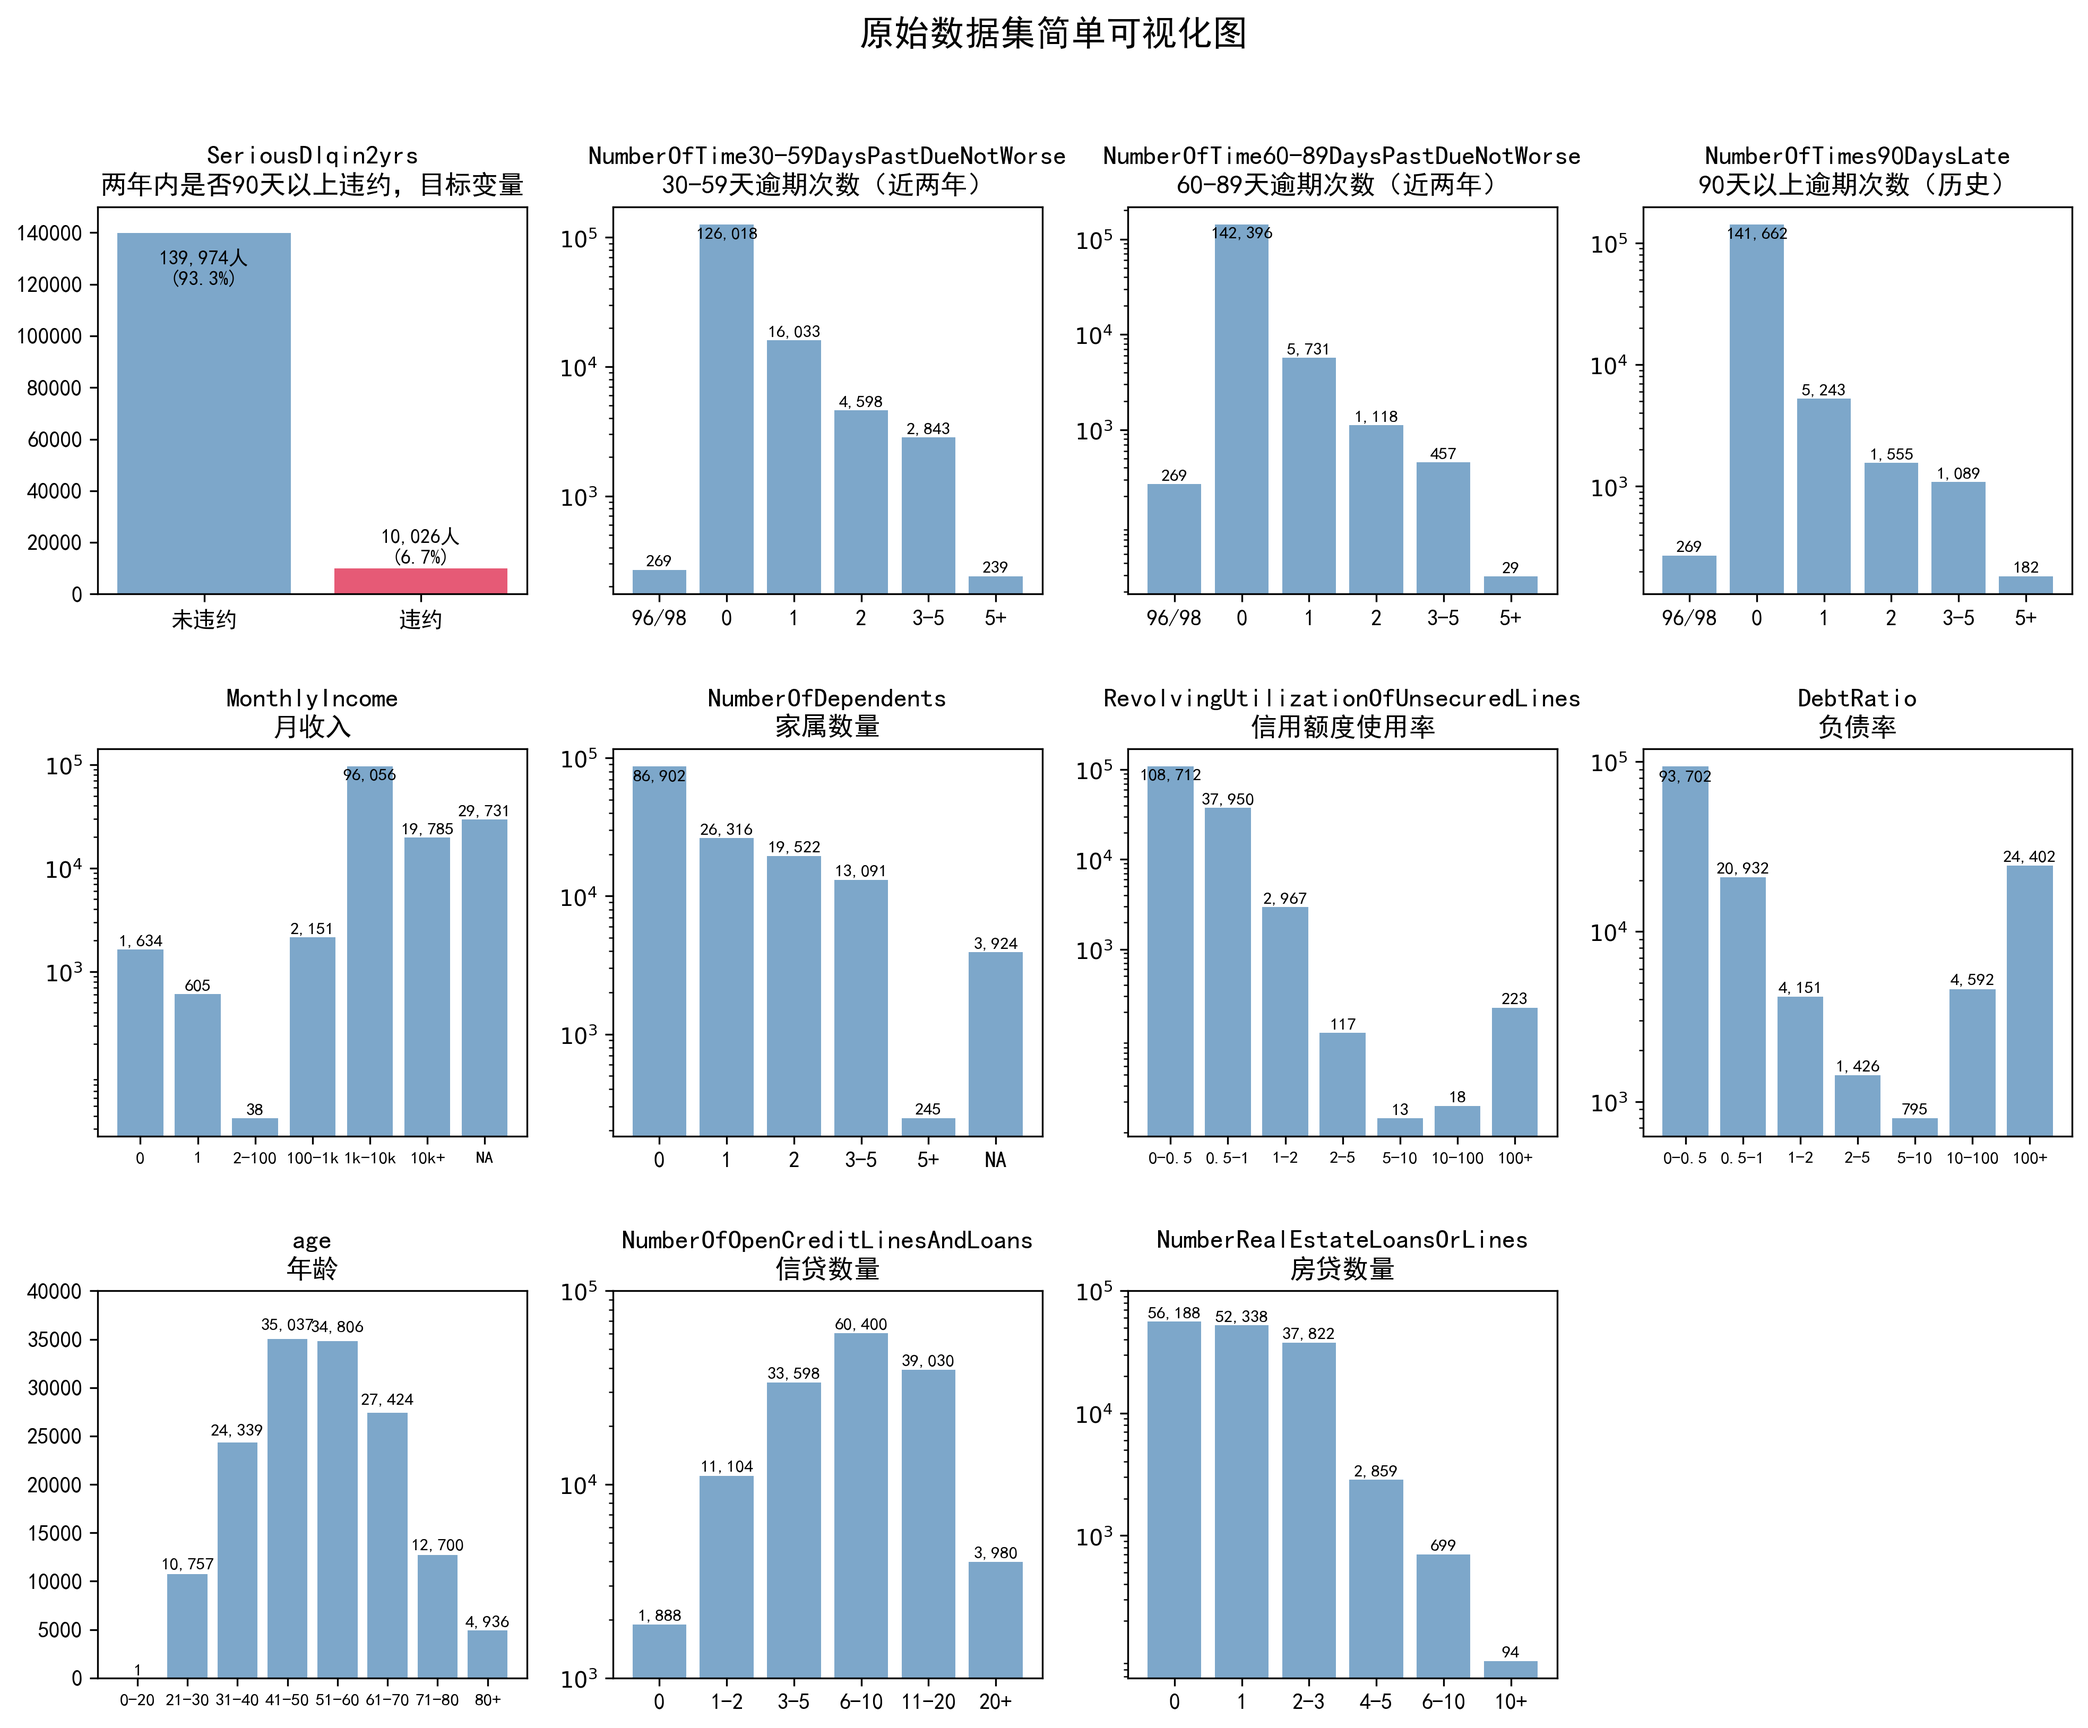
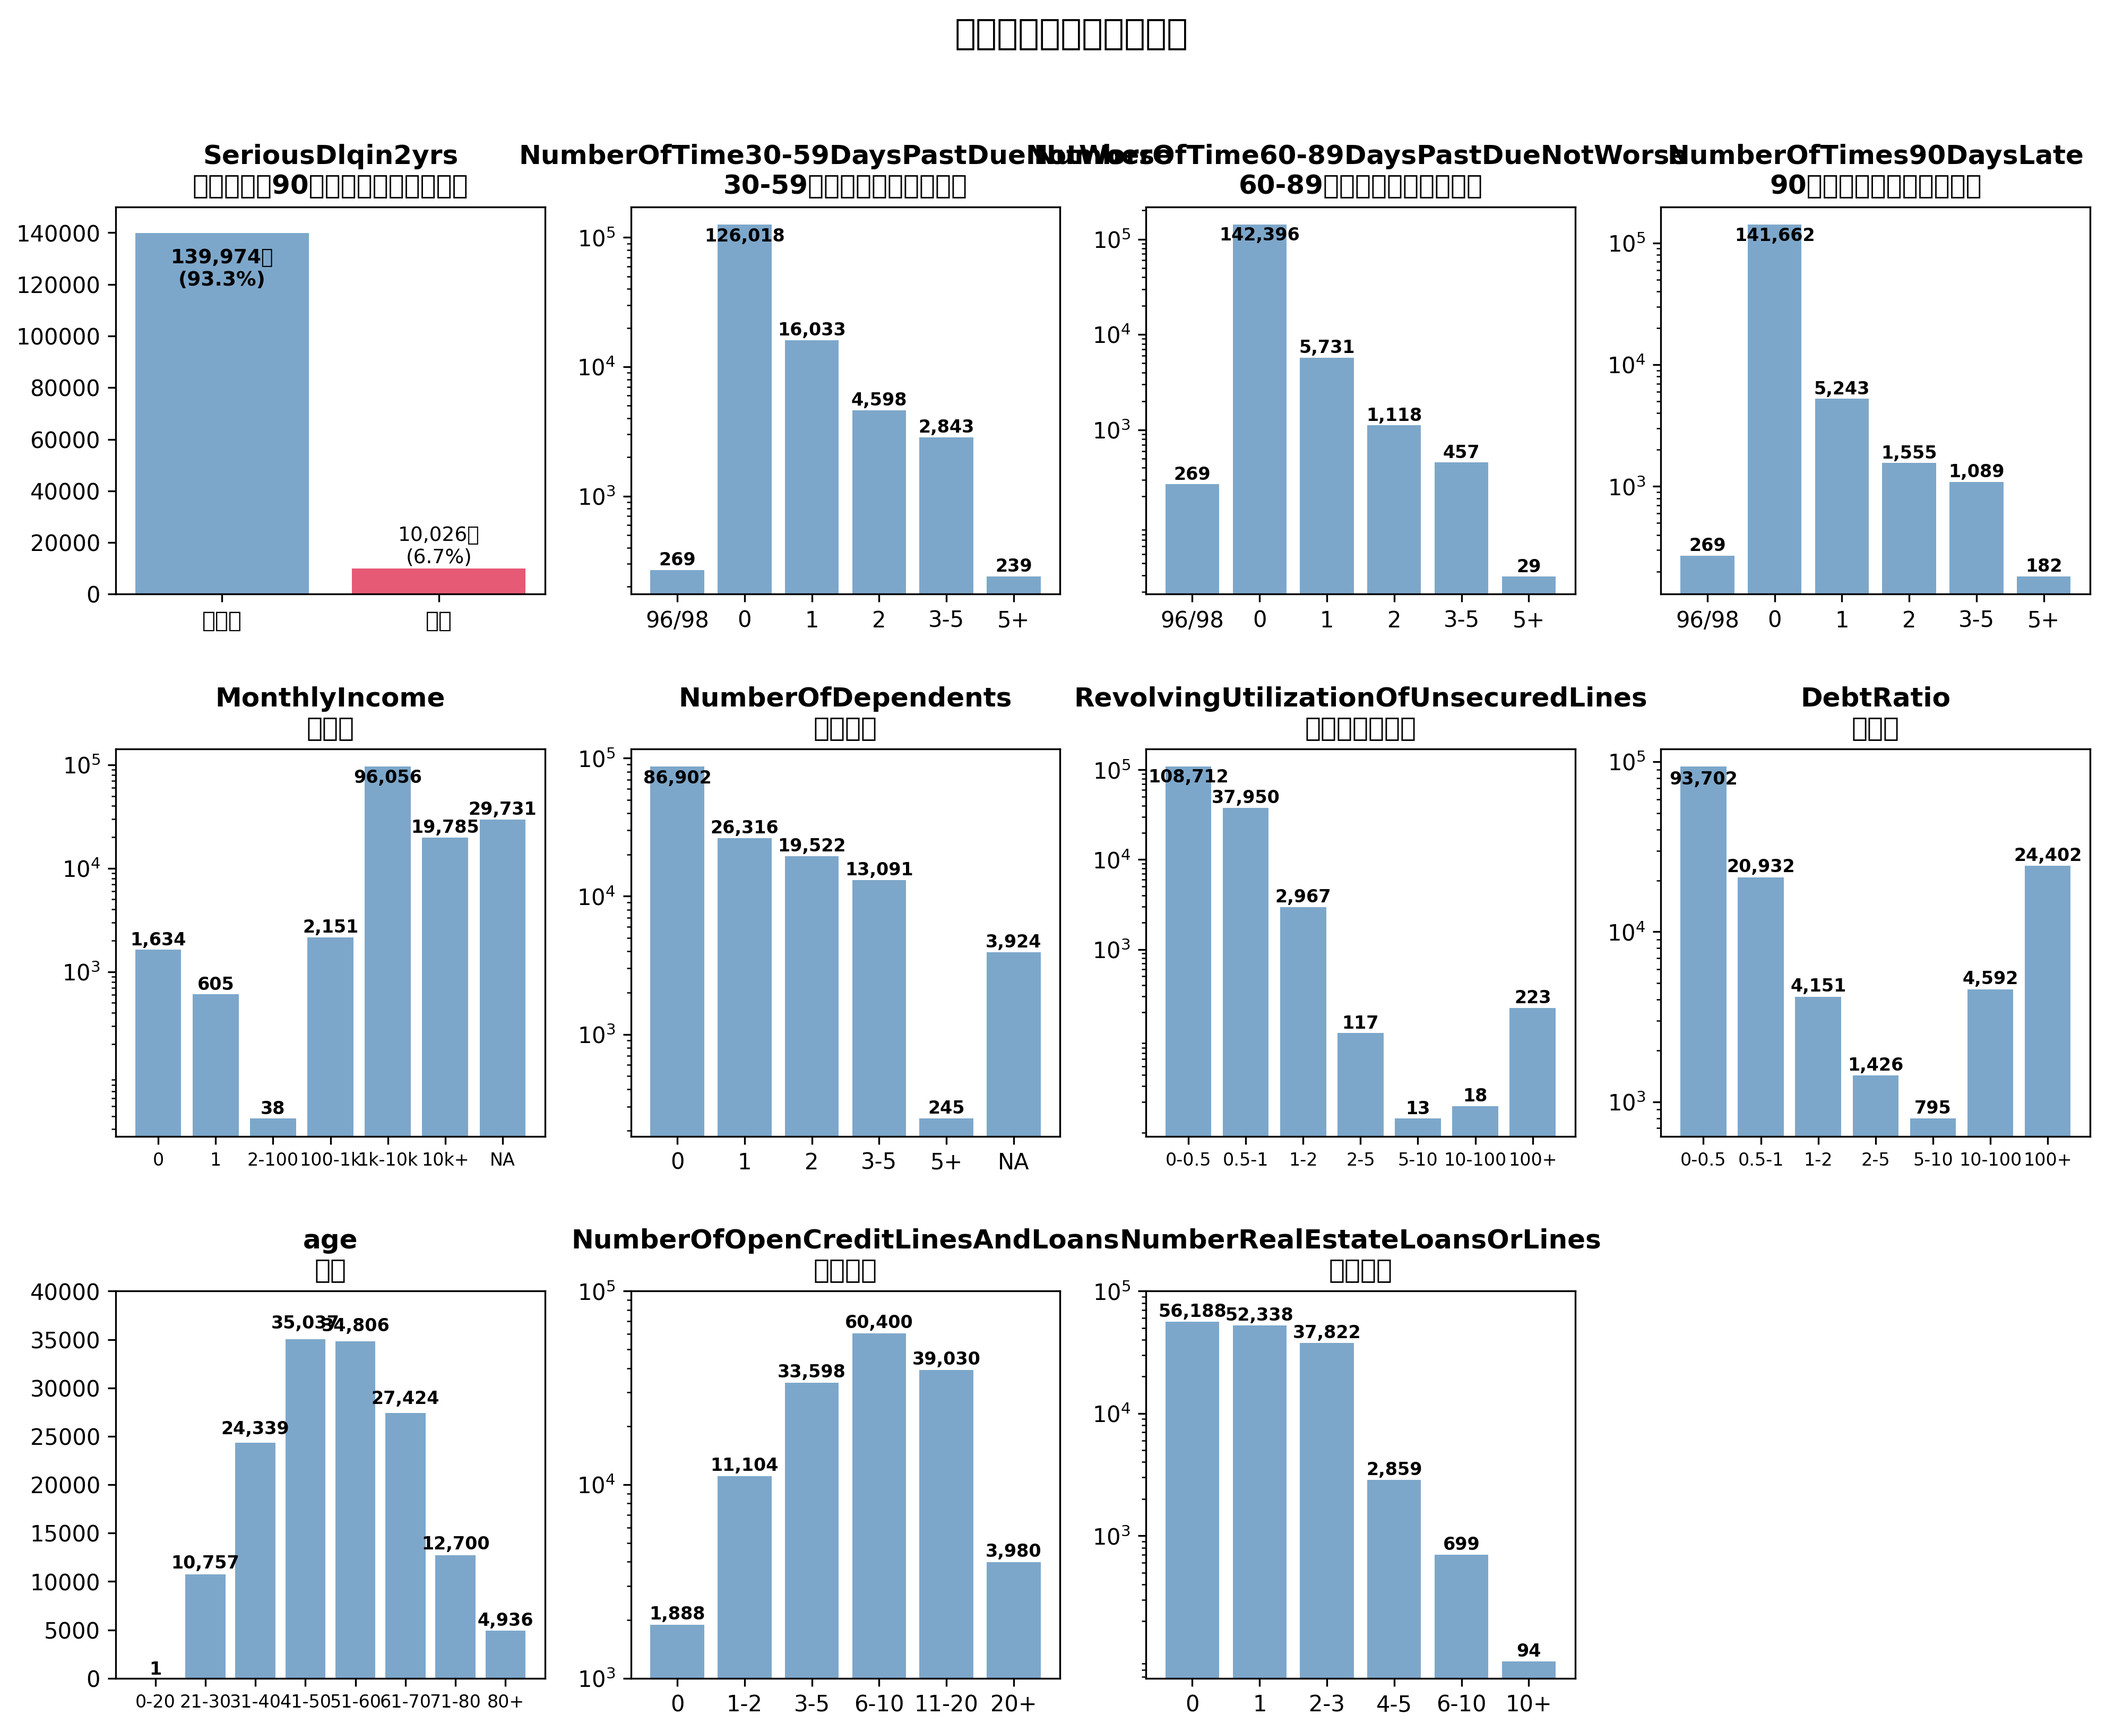
Add cross-platform matplotlib font configuration

diff --git a/operation.py b/operation.py
@@ -3,12 +3,25 @@ from pipeline import *
 from visualization import *
 import matplotlib.pyplot as plt
 from sklearn.model_selection import train_test_split
-from IPython.display import display
-import warnings
 
+import platform
+system = platform.system()
+
+if system == "Windows":
+    plt.rcParams["font.sans-serif"] = ["SimHei", "Microsoft YaHei", "DejaVu Sans"]
+elif system == "Linux":
+    plt.rcParams["font.sans-serif"] = ["Noto Sans CJK SC", "WenQuanYi Micro Hei", "DejaVu Sans"]
+elif system == "Darwin":  # macOS
+    plt.rcParams["font.sans-serif"] = ["PingFang SC", "Heiti SC", "Arial Unicode MS", "DejaVu Sans"]
+else:
+    plt.rcParams["font.sans-serif"] = ["DejaVu Sans"]
+
+plt.rcParams["axes.unicode_minus"] = False
+
+import warnings
+import logging
 warnings.filterwarnings('ignore') # 忽略警告信息
-plt.rcParams['font.sans-serif'] = ['SimHei'] # 设置中文显示
-plt.rcParams['axes.unicode_minus'] = False
+logging.getLogger("matplotlib.font_manager").setLevel(logging.ERROR)
 
 """ 早期准备 """ 
 # region

diff --git a/reports/linux_py313_errors.md b/reports/linux_py313_errors.md
@@ -1,0 +1,47 @@
+# Linux Python 3.13 运行报错
+
+```text
+Traceback (most recent call last):
+  File "/home/father_yuyue/projects/Kaggle_GiveMeSomeCredits/.venv_py313/lib/python3.13/site-packages/pandas/core/internals/blocks.py", line 1115, in setitem
+    casted = np_can_hold_element(values.dtype, value)
+  File "/home/father_yuyue/projects/Kaggle_GiveMeSomeCredits/.venv_py313/lib/python3.13/site-packages/pandas/core/dtypes/cast.py", line 1705, in np_can_hold_element
+    raise LossySetitemError
+pandas.errors.LossySetitemError
+
+During handling of the above exception, another exception occurred:
+
+Traceback (most recent call last):
+  File "<stdin>", line 12, in <module>
+  File "operation.py", line 505, in <module>
+    add_derived_features(train_data); add_derived_features(valid_data)
+    ~~~~~~~~~~~~~~~~~~~~^^^^^^^^^^^^
+  File "/tmp/gmsc_py313_run_qV8X6Y/pipeline.py", line 716, in add_derived_features
+    data.loc[mask_income_reliable, 'income_per_dep'] = \
+    ~~~~~~~~^^^^^^^^^^^^^^^^^^^^^^^^^^^^^^^^^^^^^^^^
+  File "/home/father_yuyue/projects/Kaggle_GiveMeSomeCredits/.venv_py313/lib/python3.13/site-packages/pandas/core/indexing.py", line 938, in __setitem__
+    iloc._setitem_with_indexer(indexer, value, self.name)
+    ~~~~~~~~~~~~~~~~~~~~~~~~~~^^^^^^^^^^^^^^^^^^^^^^^^^^^
+  File "/home/father_yuyue/projects/Kaggle_GiveMeSomeCredits/.venv_py313/lib/python3.13/site-packages/pandas/core/indexing.py", line 1953, in _setitem_with_indexer
+    self._setitem_with_indexer_split_path(indexer, value, name)
+    ~~~~~~~~~~~~~~~~~~~~~~~~~~~~~~~~~~~~~^^^^^^^^^^^^^^^^^^^^^^
+  File "/home/father_yuyue/projects/Kaggle_GiveMeSomeCredits/.venv_py313/lib/python3.13/site-packages/pandas/core/indexing.py", line 1997, in _setitem_with_indexer_split_path
+    self._setitem_single_column(ilocs[0], value, pi)
+    ~~~~~~~~~~~~~~~~~~~~~~~~~~~^^^^^^^^^^^^^^^^^^^^^
+  File "/home/father_yuyue/projects/Kaggle_GiveMeSomeCredits/.venv_py313/lib/python3.13/site-packages/pandas/core/indexing.py", line 2181, in _setitem_single_column
+    self.obj._mgr.column_setitem(loc, plane_indexer, value)
+    ~~~~~~~~~~~~~~~~~~~~~~~~~~~~^^^^^^^^^^^^^^^^^^^^^^^^^^^
+  File "/home/father_yuyue/projects/Kaggle_GiveMeSomeCredits/.venv_py313/lib/python3.13/site-packages/pandas/core/internals/managers.py", line 1520, in column_setitem
+    new_mgr = col_mgr.setitem((idx,), value)
+  File "/home/father_yuyue/projects/Kaggle_GiveMeSomeCredits/.venv_py313/lib/python3.13/site-packages/pandas/core/internals/managers.py", line 604, in setitem
+    return self.apply("setitem", indexer=indexer, value=value)
+           ~~~~~~~~~~^^^^^^^^^^^^^^^^^^^^^^^^^^^^^^^^^^^^^^^^^
+  File "/home/father_yuyue/projects/Kaggle_GiveMeSomeCredits/.venv_py313/lib/python3.13/site-packages/pandas/core/internals/managers.py", line 442, in apply
+    applied = getattr(b, f)(**kwargs)
+  File "/home/father_yuyue/projects/Kaggle_GiveMeSomeCredits/.venv_py313/lib/python3.13/site-packages/pandas/core/internals/blocks.py", line 1118, in setitem
+    nb = self.coerce_to_target_dtype(value, raise_on_upcast=True)
+  File "/home/father_yuyue/projects/Kaggle_GiveMeSomeCredits/.venv_py313/lib/python3.13/site-packages/pandas/core/internals/blocks.py", line 468, in coerce_to_target_dtype
+    raise TypeError(f"Invalid value '{other}' for dtype '{self.values.dtype}'")
+TypeError: Invalid value '[1202.33333333 1160.         1246.         ... 2600.         3601.
+ 3833.        ]' for dtype 'int64'
+
+```

diff --git a/reports/linux_py313_run_summary.md b/reports/linux_py313_run_summary.md
@@ -1,0 +1,18 @@
+# Linux Python 3.13 运行摘要
+
+- 运行目录：`/tmp/gmsc_py313_run_qV8X6Y`
+- 总耗时（秒）：`4.49`
+- 是否成功跑完：`no`
+- 是否生成模型比较表：`no`
+
+## Windows 基准结果
+
+| model | test AUC | AUC gap | test KS | KS gap |
+|---|---:|---:|---:|---:|
+| Raw LR | 0.8581 | 0.0012 | 0.5671 | -0.0066 |
+| WOE LR / ScoreCard | 0.8612 | -0.0013 | 0.5641 | -0.0056 |
+| XGBoost | 0.8659 | 0.0074 | 0.5825 | 0.0067 |
+
+## 报错
+
+- 已保存到 `/home/father_yuyue/projects/Kaggle_GiveMeSomeCredits/reports/linux_py313_errors.md`
